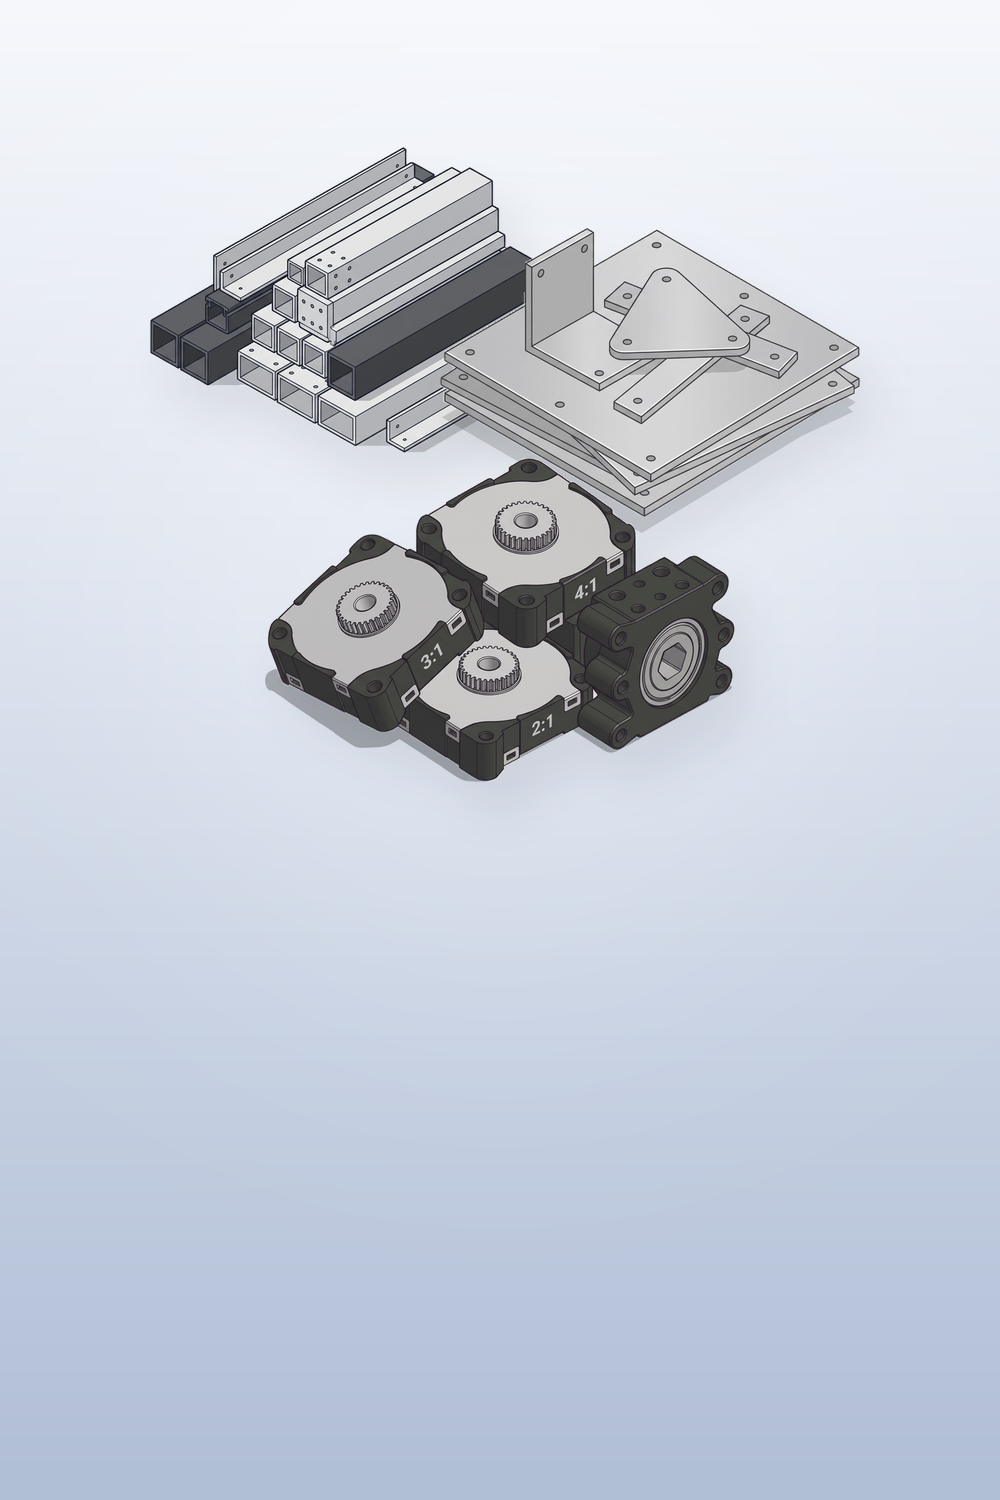
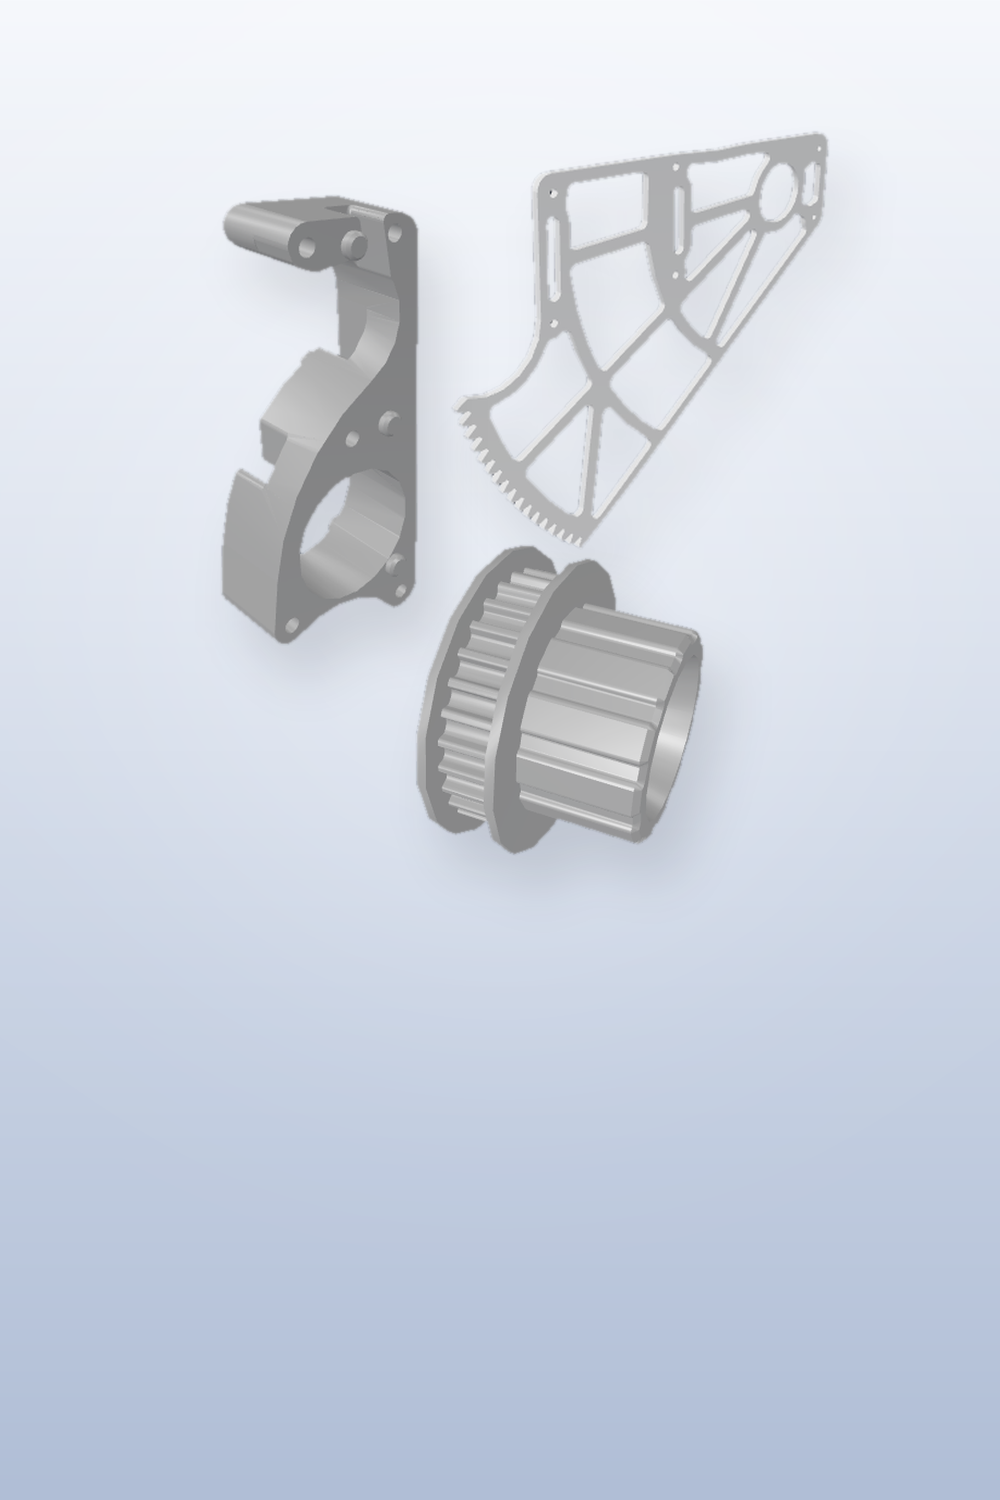
Home: smaller cards with wider side margins, BOM picture from real robot parts
Claude-Session: https://claude.ai/code/session_01QVyXKoyzYvjuoX4h56kS9w

Changed region(s): [[0.124, 0.092, 0.868, 0.5827]]

diff --git a/src/app/(app)/page.tsx b/src/app/(app)/page.tsx
@@ -33,9 +33,9 @@ export default async function HomePage({ searchParams }: { searchParams: Promise
   // The cards fill the space between the sidebars: the negative margins undo the shell's own
   // padding, and on md+ the row is exactly one screen tall under the top bar. Phones stack them.
   return (
-    <div className="-m-4 flex md:-m-6 md:h-[calc(100dvh-var(--topbar-h,3.5rem))] md:overflow-hidden lg:-ml-11 xl:-mr-11 p-4 sm:p-6 lg:p-8">
+    <div className="-m-4 flex md:-m-6 md:h-[calc(100dvh-var(--topbar-h,3.5rem))] md:overflow-hidden lg:-ml-11 xl:-mr-11 p-4 sm:p-8 lg:px-16 lg:py-10 xl:px-24">
       <h1 className="sr-only">OrbitParts</h1>
-      <div className="grid h-full w-full grid-cols-1 gap-4 sm:gap-6 md:grid-cols-3">
+      <div className="mx-auto grid w-full max-w-6xl grid-cols-1 gap-4 self-center sm:gap-6 md:h-full md:max-h-[42rem] md:grid-cols-3">
         {tiles.map((t) => (
           <FastLink
             key={t.title}
